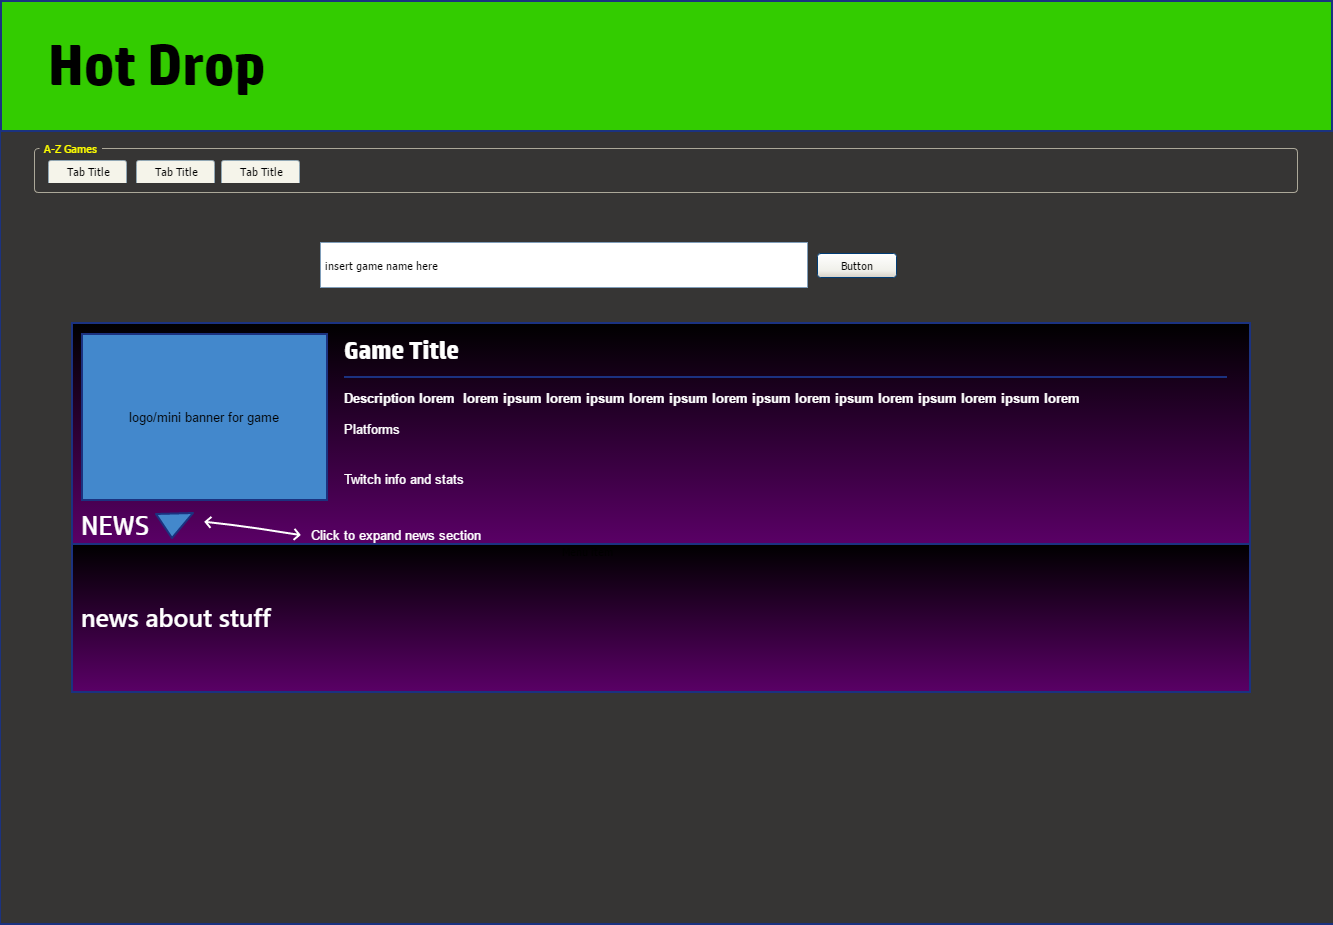
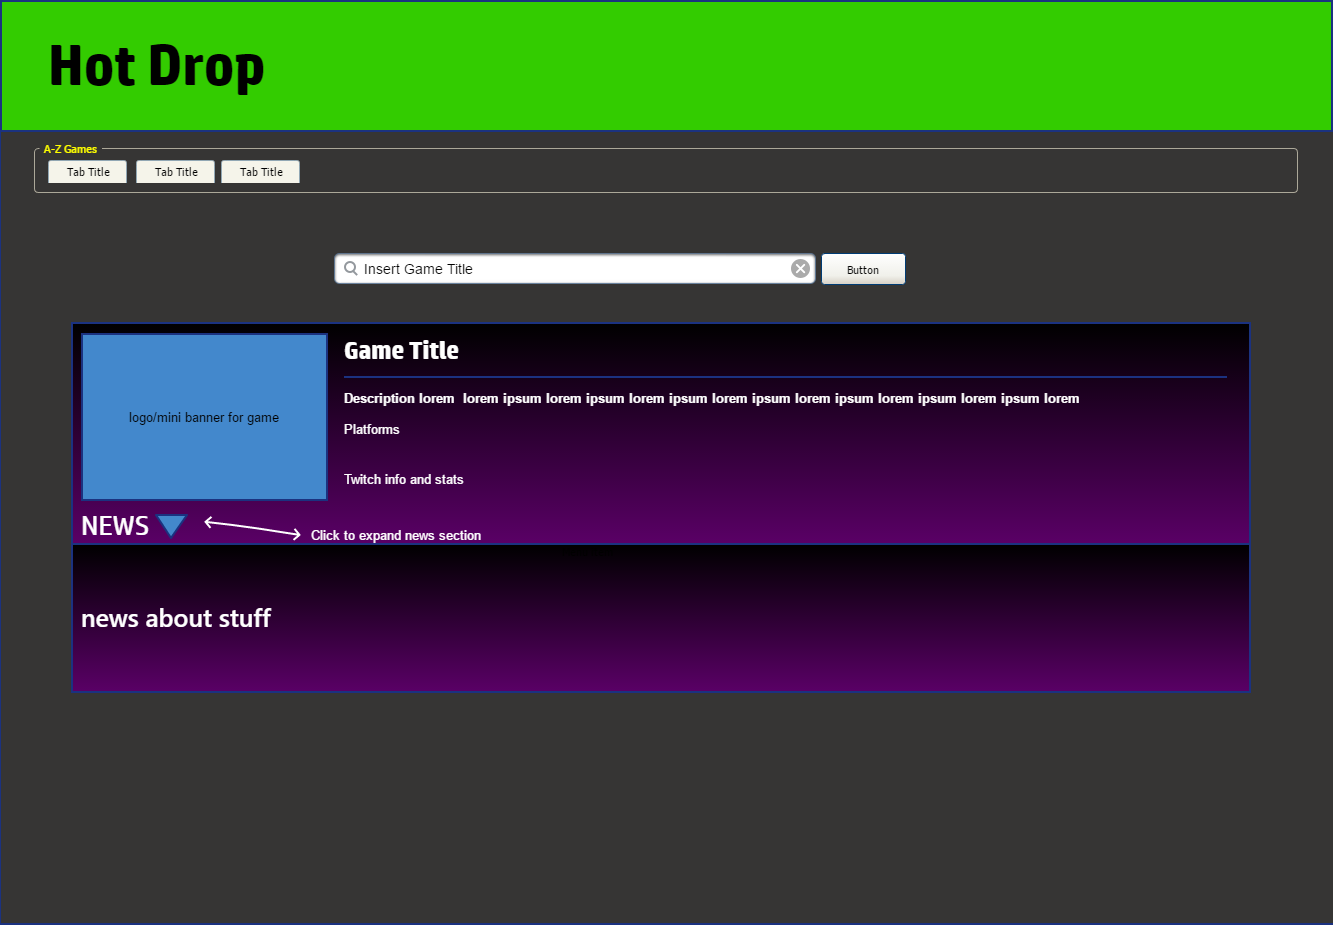
search bar skeleton

Changed region(s): [[0.2153, 0.2422, 0.6767, 0.333], [0.123, 0.5449, 0.1538, 0.5751]]

diff --git a/index.html b/index.html
@@ -15,6 +15,19 @@
         <h1>HOT DROP</h1>
     </div>
 
+    <div class="container">
+        <div class="input-group input-group-lg">
+            <div class="input-group-prepend">
+              <span class="input-group-text" id="inputGroup-sizing-lg">Where we droppin'?</span>
+      
+            </div>
+            <input type="text" class="form-control" aria-label="Large" aria-describedby="inputGroup-sizing-sm" id="search" placeholder="Insert game title">
+            <button class="btn btn-secondary" type="button">Search</button>
+
+          </div>
+
+    </div>
+
     <!-- Optional JavaScript -->
     <!-- jQuery first, then Popper.js, then Bootstrap JS -->
     <script src="https://code.jquery.com/jquery-3.3.1.slim.min.js" integrity="sha384-q8i/X+965DzO0rT7abK41JStQIAqVgRVzpbzo5smXKp4YfRvH+8abtTE1Pi6jizo" crossorigin="anonymous"></script>

diff --git a/assets/css/style.css b/assets/css/style.css
@@ -3,7 +3,7 @@
     height: 26pt;
 }
 
-html {
+body {
     background-color:#363534;
 }
 
@@ -11,4 +11,8 @@ h1 {
     font-family:'Segoe UI', Tahoma, Geneva, Verdana, sans-serif;
     font-weight:bolder;
     font-size:26pt;
+}
+
+.container{
+    background-color:#363534;
 }
